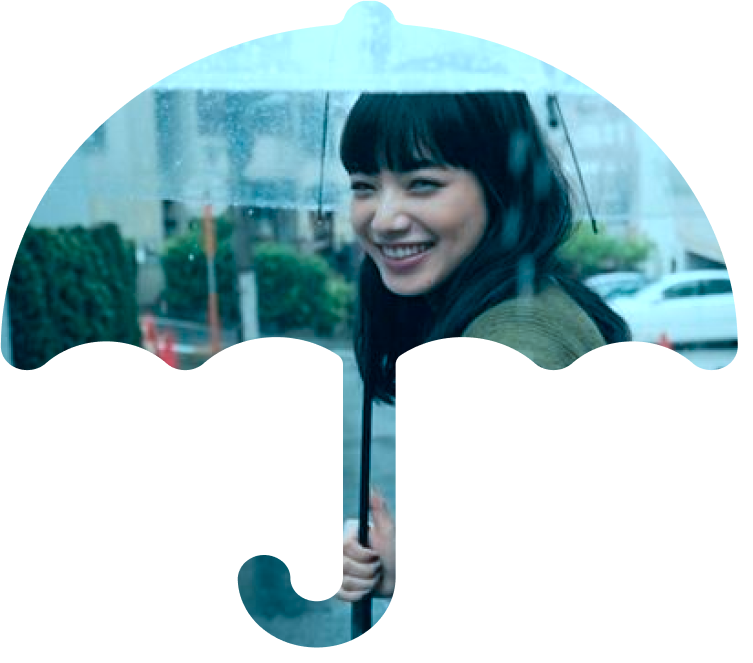
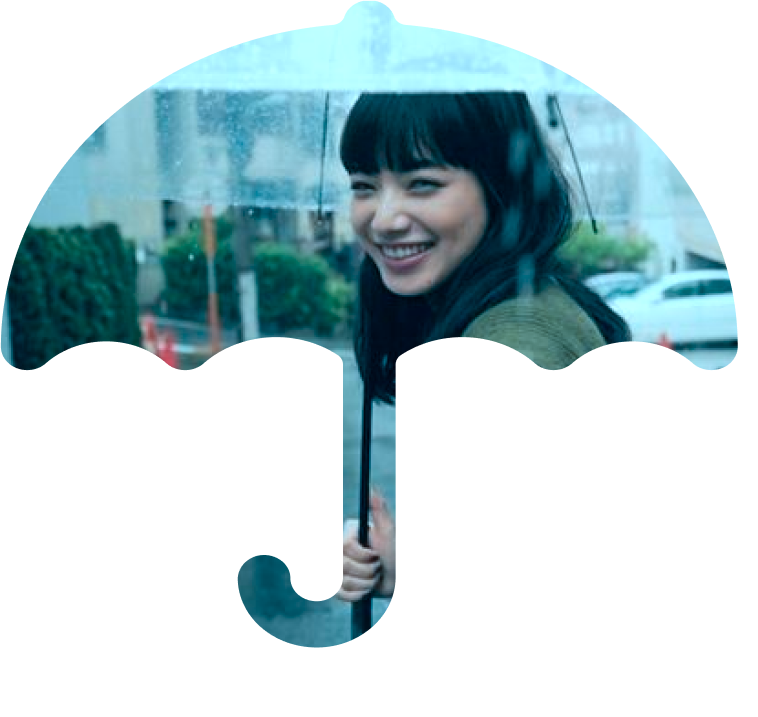
modify

diff --git a/style.css b/style.css
@@ -24,12 +24,12 @@
 
  body.indexbg {
      /* background-image:url(./img/index-bg.png) ; */
-     background-position: left top;
+     ba~ckground-position: left top;
      background-repeat: no-repeat;
  }
 
  header {
-     background-image: url(./img/index-nav-bg.png);
+     background-image: url(./img/index-navbg.png);
      background-repeat: no-repeat;
      background-position: left top;
      background-size: cover;
@@ -52,7 +52,7 @@
      background-image: url(./img/nav-bg-v2.png);
      background-repeat: no-repeat;
      background-position: left top;
-     background-size: contain;
+     background-size: cover;
      height: 160px;
  }
 
@@ -192,6 +192,11 @@
  }
 
  @media screen and (max-width:1000px) {
+     #logo {
+         position: relative;
+         margin-left: 25%;
+     }
+
      .nav .toggle-btn {
          display: block;
          font-size: 30px;
@@ -336,15 +341,14 @@
  }
 
  .title {
-     width: max-content;
      position: relative;
-     top: 40px;
-     left: 60px;
+     top: 0px;
+     left: 30px;
      display: flex;
      gap: 25px;
      color: #006CA2;
-     font-size: 2vw;
-     padding: 22px 0px;
+     font-size: 20px;
+     padding: 20% 0;
  }
 
  .section {
@@ -367,9 +371,10 @@
  }
 
  .h1-cloud-bg {
-     width: 66%;
+     width: 60%;
      position: absolute;
      top: 3px;
+     z-index: -1;
  }
 
  .section.about .title-group {
@@ -384,7 +389,6 @@
  .about .content {
      margin: auto;
      font-size: 20px;
-     padding-left: 50px;
      line-height: 1.5;
  }
 
@@ -600,13 +604,12 @@
      display: flex;
      flex-direction: column;
      gap: 20px 0;
-     width: 90%;
+     width: 60%;
      height: 100%;
+     margin: auto;
      border: solid 5px transparent;
      border-radius: 20px;
-     background-image:
-         linear-gradient(#fff, #fff),
-         linear-gradient(to bottom, rgba(0, 175, 236), rgba(106, 225, 233, 0.42));
+     background-image: linear-gradient(#fff, #fff), linear-gradient(to bottom, rgba(0, 175, 236), rgba(106, 225, 233, 0.42));
      background-origin: border-box;
      background-clip: content-box, border-box;
  }
@@ -633,7 +636,6 @@
      position: relative;
      margin: auto;
      padding: 20px;
-     width: 90%;
      height: 100%;
  }
 
@@ -651,11 +653,22 @@
  } */
 
  .step-img img {
-     width: 100%;
-     height: fit-content;
+     height: auto;
      display: block;
      margin: auto;
      padding: 5px;
+ }
+
+ @media screen and (max-width:1000px) {
+     .howToUse.content {
+         flex-direction: column;
+     }
+
+     /* .step-img img {
+         width: 100%;
+         height: 100%;
+
+     } */
  }
 
  /* .step-line.line1 {
@@ -677,7 +690,7 @@
  /* footer */
  .section.footer {
      background-image: url(./img/footer-bg.png);
-     background-position: center top;
+     background-position: top right;
      background-repeat: no-repeat;
      background-size: cover;
      margin-bottom: 0;
@@ -685,10 +698,17 @@
      ;
  }
 
+ /* footer-text-img-area */
+ .footer-text-img-area {
+     display: flex;
+     margin: auto;
+     justify-content: space-between;
+ }
+
  .footer-content-img {
      /* outline: solid red 1px; */
-     width: 30%;
-     left: 60%;
+     width: 41%;
+     right: 16%;
      top: 15%;
      position: absolute;
  }
@@ -734,7 +754,6 @@
      background-clip: text;
      -webkit-background-clip: text;
      color: transparent;
-     margin-left: -246%;
  }
 
  .footer-content-text div {

diff --git a/index.html b/index.html
@@ -190,11 +190,10 @@
     </main>
 
     <div class="section footer">
-
-        <div class="footer-content-img">
-            <img class="umbrella-girl" src="./img/umbrella-girl.png" alt="umbrella-girl">
-        </div>
-        <div class="footer-text">
+        <div class="footer-text-img-area">
+            <div class="footer-content-img">
+                <img class="umbrella-girl" src="./img/umbrella-girl.png" alt="umbrella-girl">
+            </div>
             <div class="footer-content">
                 <div class="footer-content-text">
                     <div class="footer-content-text-1">
@@ -208,6 +207,9 @@
                         隨時還</div>
                 </div>
             </div>
+        </div>
+        <div class="footer-text">
+
             <div class="footer-wrap">
                 <div class="footer-list">
                     <ul class="footer-list-g1">
